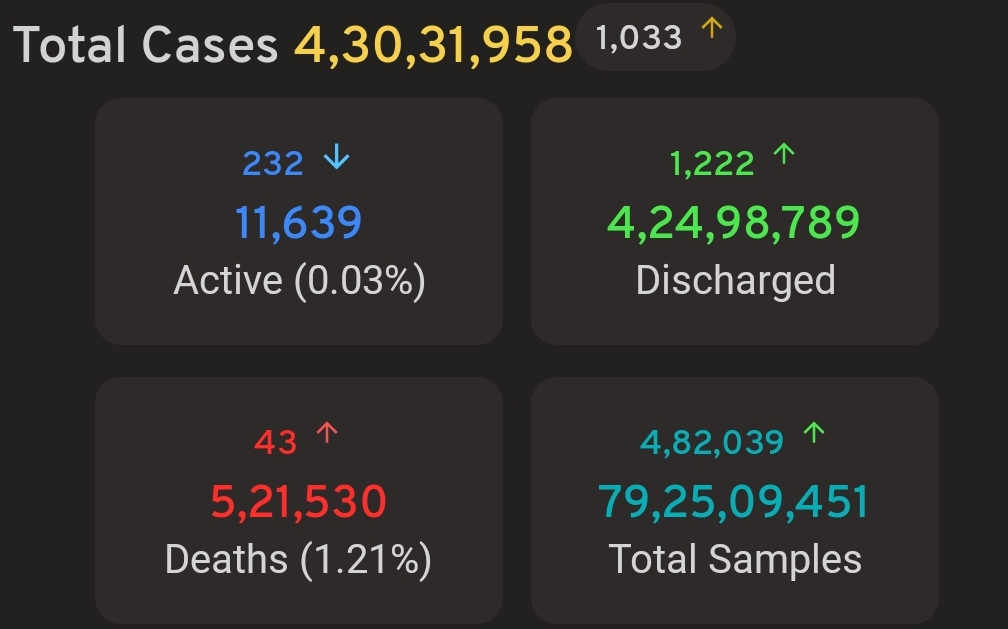
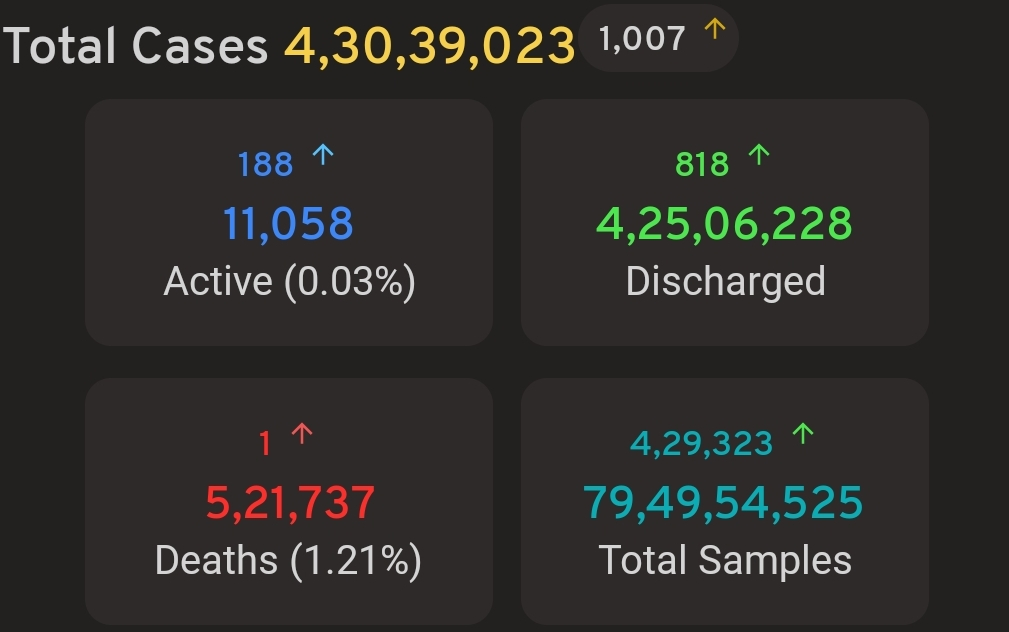
changes 11

diff --git a/index.html b/index.html
@@ -158,7 +158,7 @@
                     <h6>12/4<br>TUE</h6>
                   </a></li>
                 <li class="tab"><a href="#iwe" class="black white-text">
-                    <h6>6/4<br>WED</h6>
+                    <h6>13/4<br>WED</h6>
                   </a></li>
                 <li class="tab"><a href="#ith" class="black white-text">
                     <h6>7/4<br>THU</h6>
@@ -338,7 +338,7 @@
                     <h6>12/4<br>TUE</h6>
                   </a></li>
                 <li class="tab"><a href="#swe" class="black white-text">
-                    <h6>6/4<br>WED</h6>
+                    <h6>13/4<br>WED</h6>
                   </a></li>
                 <li class="tab"><a href="#sth" class="black white-text">
                     <h6>7/4<br>THU</h6>
@@ -951,13 +951,13 @@
             </div>
           </div>
           <blockquote style="font-size: x-large; border-left-color: #1e88e5;">Mumbai Dashboard</blockquote>
-          <h6>Source: Official MCGM Website<br>As on April 12 (April 11)</h6>
+          <h6>Source: Official MCGM Website<br>As on April 13 (April 12)</h6>
           <div class="row">
             <div class="col s12 m12 l6">
-              <img src="images/M12.png" alt="Mum" width="100%" class="responsive-img materialboxed">
+              <img src="images/M13.png" alt="Mum" width="100%" class="responsive-img materialboxed">
             </div>
             <div class="col s12 m12 l6">
-              <img src="images/M11.png" alt="Mum" width="100%" class="responsive-img materialboxed">
+              <img src="images/M12.png" alt="Mum" width="100%" class="responsive-img materialboxed">
             </div>
           </div>
           <blockquote style="font-size: x-large; border-left-color: #1e88e5;">Palghar Dashboard</blockquote>
@@ -990,34 +990,34 @@
                   <caption>Week Trend of New Cases (<i class="fas fa-arrow-circle-up"></i>)</caption>
                   <tbody>
                     <tr>
+                      <td>Apr 14 <br><i class="fas fa-arrow-circle-up"></i><br>1</td>
                       <td>Apr 13 <br><i class="fas fa-arrow-circle-up"></i><br>7</td>
                       <td>Apr 12 <br><i class="fas fa-arrow-circle-up"></i><br>3</td>
                       <td>Apr 11 <br><i class="fas fa-arrow-circle-up"></i><br>1</td>
-                      <td>Apr 10 <br><i class="fas fa-arrow-circle-up"></i><br>0</td>
                     </tr>
                     <tr>
+                      <td>Apr 10 <br><i class="fas fa-arrow-circle-up"></i><br>0</td>
                       <td>Apr 9 <br><i class="fas fa-arrow-circle-up"></i><br>2</td>
                       <td>Apr 8 <br><i class="fas fa-arrow-circle-up"></i><br>1</td>
-                      <td>Apr 7 <br><i class="fas fa-arrow-circle-up"></i><br>1</td>
                     </tr>
                   </tbody>
                 </table>
-                <p><b>Total:</b> 183695 </p>
+                <p><b>Total:</b> 183696 </p>
                 <p><b>Active:</b> 17 </p>
-                <p><b>Recovered:</b> 181551 </p>
+                <p><b>Recovered:</b> 181552 </p>
                 <p><b>Deceased:</b> 2127 </p>
                 <hr>
                 <p class="grey-text text-lighten-1">
-                  Majiwada Manpada: 4<br>
-                  Vartaknagar: 1<br>
-                  Lokmanyanagar Savarkarnagar: 1<br>
+                  Majiwada Manpada: 0<br>
+                  Vartaknagar: 0<br>
+                  Lokmanyanagar Savarkarnagar: 0<br>
                   Naupada-Kopari: 0<br>
-                  Uthalsar: 0<br>
-                  Wagale: 1<br>
+                  Uthalsar: 1<br>
+                  Wagale: 0<br>
                   Kalwa: 0<br>
                   Mumbra: 0<br>
                   Diva: 0<br>
-                  Others: 0 [Apr 13]</p>
+                  Others: 0 [Apr 14]</p>
               </div>
             </div>
             <div class="col s12 m6 l4">
